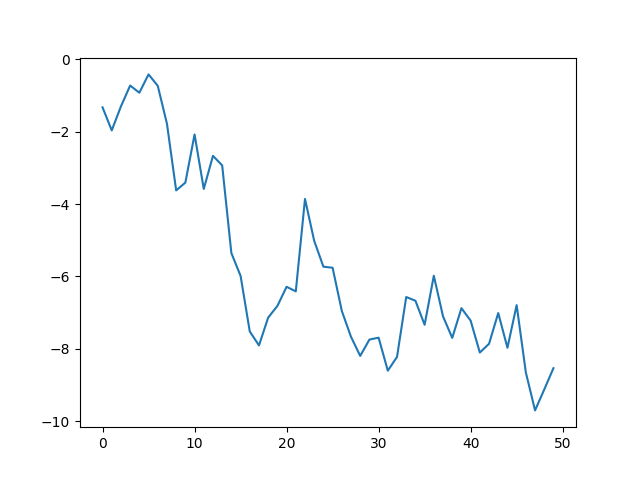
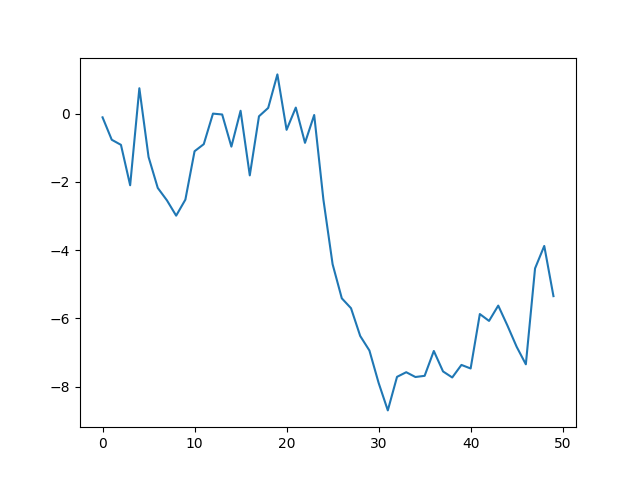
adding map function

diff --git a/Week1/MoreExamples/python2.py b/Week1/MoreExamples/python2.py
@@ -1,3 +1,5 @@
+from typing import Callable
+
 import matplotlib.pyplot as plt
 import numpy as np
 plt.plot(np.random.randn(50).cumsum())
@@ -89,7 +91,108 @@ print(result)
 #list comprehenstions
 
 list_strings = ['b', 'is', 'cat', 'far', 'love', 'python']
+words:list = [word.upper() for word in list_strings]
+print(words)
+
+#is equivalent to
+words=[]
+for word in list_strings:
+    words.append(word.upper())
+print(words)
+
+#set comprehension
+#what is the unique set of word lengths in my list
+string_lengths={len(word) for word in list_strings}
+print(string_lengths)
+
+#dict comprehension
+print(list(enumerate(list_strings)))
+loc_mapping = {index:val for index,val in enumerate(list_strings)}
+print(loc_mapping)
 
 
+#lambdas or anonymous functions
+def short_function(x):
+    return x*2
+
+equiv_anon: Callable[[int],int] = lambda x: x*2
+
+print(short_function(6))
+print(equiv_anon(6))
+
+max_val = lambda x,y: x if x>y else y
+print(max_val(10,7))
+
+#############################################################
+#nested list_comprehensions
+
+all_data = [['John', 'Emily', 'Michael', 'Mary', 'Steven','Even'],
+    ['Maria', 'Juan', 'Javier', 'Natalia', 'Pilar', 'Tomee']]
+
+# need to return single list with all names that have two or more e's in them
+names_of_interest = []
+for names in all_data:
+    enough_es = [name for name in names if name.lower().count('e')>=2]
+    names_of_interest.extend(enough_es)
+
+print(names_of_interest)
+
+names_of_interest_2 = [x for List in all_data for x in List if x.lower().count('e')>=2]
+print(names_of_interest_2)
+
+#a more functional way and even shorter, that is also good, both are good, this is just different
+list_of_names_2=list(filter(lambda x: x.lower().count('e')>=2, sum(all_data,[])))
+print(list_of_names_2)
+
+#the sum can actually flatten a list of lists to a list here
+print("functional")
+print(sum(all_data,[]))
+
+
+
+##########################################
+some_tuples = [(1, 2, 3), (4, 5, 6), (7, 8, 9)]
+flattened = [x for tup in some_tuples for x in tup]
+print(flattened)
+
+list_of_lists_was_list_tuples = [[x for x in tup] for tup in some_tuples] 
+print(list_of_lists_was_list_tuples)
+
+
+###############################################
+states = [' Alabama ', 'Georgia!', 'Georgia', 'georgia', 'FlOrIda','south carolina##', 'West virginia?']
+
+import re
+
+def clean_strings(strings):
+    result = []
+    for value in strings:
+        value=value.strip()
+        value=re.sub('[!#?]','', value)
+        value=value.title()
+        result.append(value)
+    return result
+
+print(clean_strings(states))
+
+#or instad
+
+def remove_punctuation(value):
+    return re.sub('[!#?]','', value, flags=re.I)
+
+clean_ops = [str.strip, remove_punctuation, str.title]
+
+def clean_strings2(strings, ops):
+    result=[]
+    for value in strings:
+        for function in ops:
+            value=function(value)
+        result.append(value)
+    return result
+
+#print(states)
+print(clean_strings2(states,clean_ops))
+
+y=[x for x in map(remove_punctuation, states)]
 
 